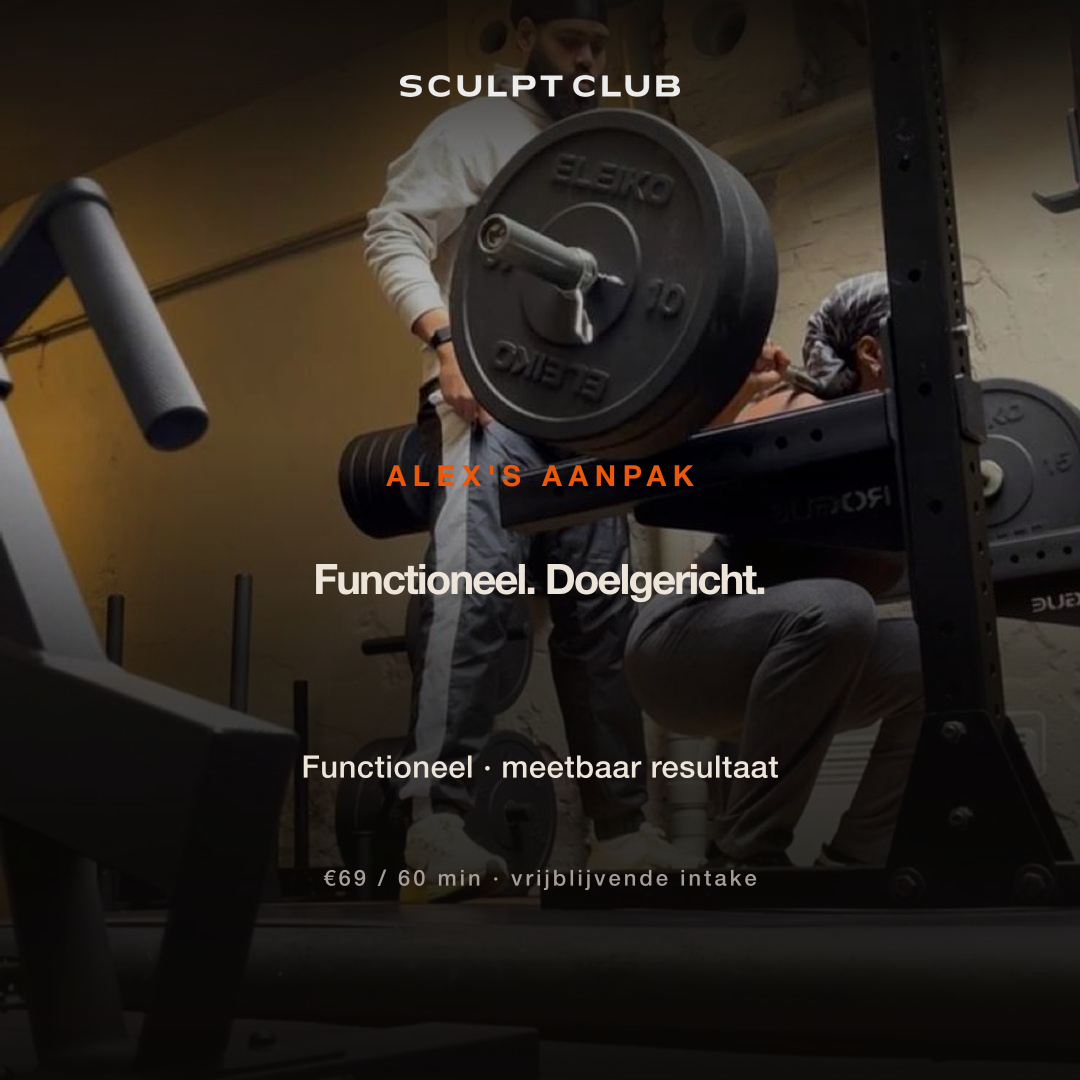
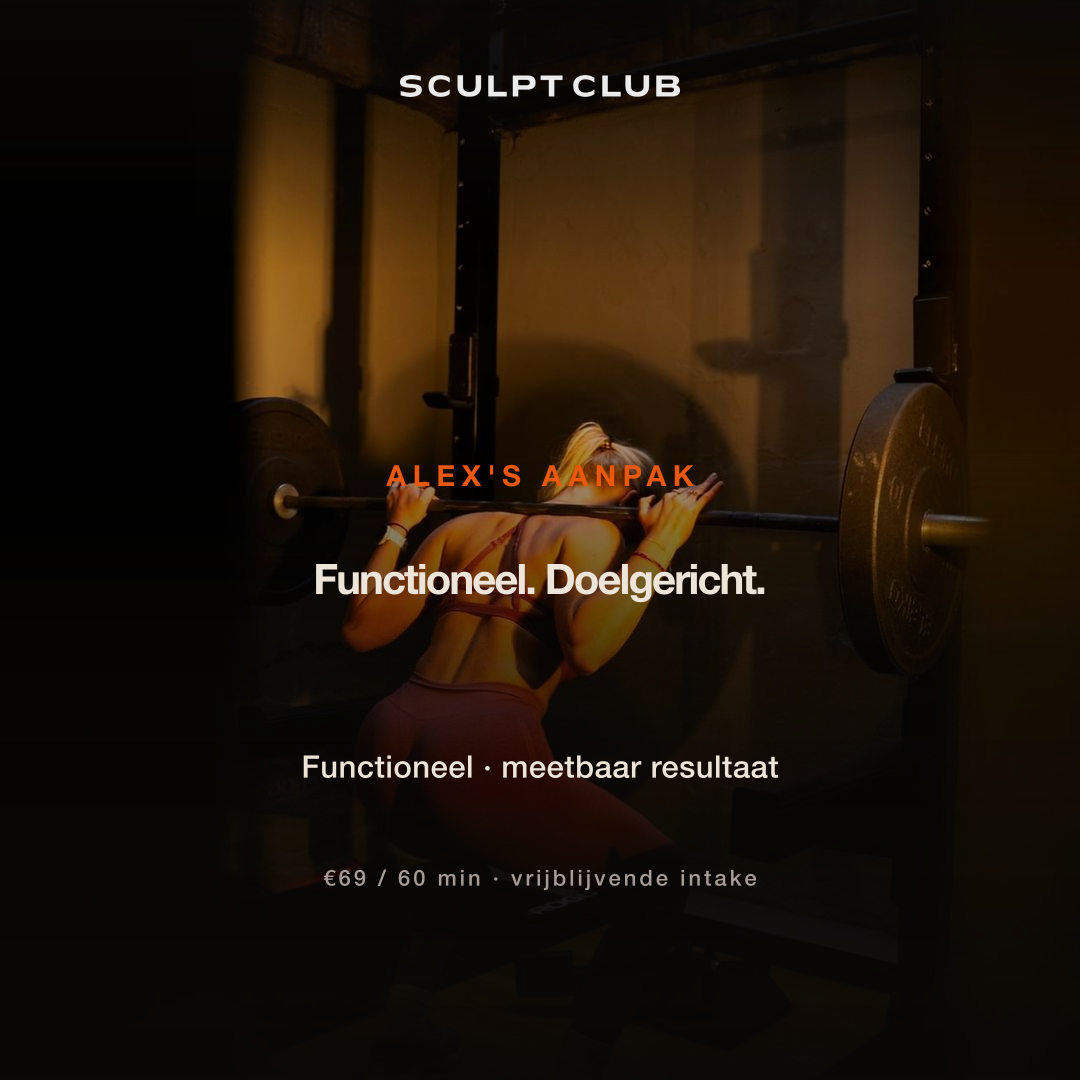
fix(social): alex-spotlight slide 2 photo — swap to back-view squat shot
Operator caught: slide 2 'ALEX'S AANPAK' photo featured a different
bearded trainer (Ibrahim from pt-session-barbell.jpg) spotting a client.
On a slide labeled as Alex's approach, viewers reasonably interpret the
photographed trainer as Alex — false attribution.

Fix: swap photoPath from PT_SESSION_BARBELL → TRAINING_SQUAT_CINEMATIC.
The cinematic squat shot is a back-view client mid-rep — no trainer
visible — same studio environment (skylight + rack + warm key light).
Reframes the slide as 'the work Alex coaches you toward' rather than
'is this Alex?'. Anonymous client = no identity conflict.

Audit of other PT_SESSION_BARBELL usages confirms no other trainer-
specific slide has the same problem:
  - intake-pitch-001 main-offer: generic 'PERSONAL TRAINING' framing ✓
  - education-squat-mistakes-001 cta: generic 'Laat je squat checken' ✓

Regenerated all 6 slides for trainer-spotlight-alex-001 (3 TT + 3 IG).

diff --git a/src/lib/image-color-manifest.ts b/src/lib/image-color-manifest.ts
@@ -10,7 +10,7 @@
 // Why not blur placeholder: see docs/PERF-EXPERIMENTS-2026-05-07.md.
 // (TL;DR: SVG feGaussianBlur regressed Lighthouse mobile LCP by 6-9s.)
 //
-// Generated: 2026-05-22T16:25:24.046Z
+// Generated: 2026-05-22T16:32:36.797Z
 // Total entries: 90
 // Skipped (unsupported format): 2
 
